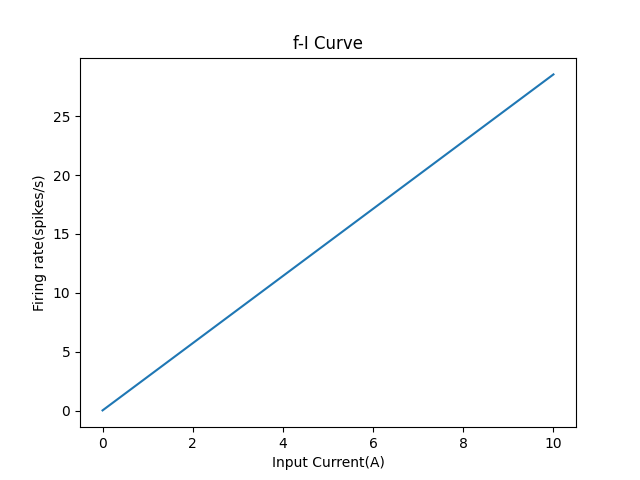
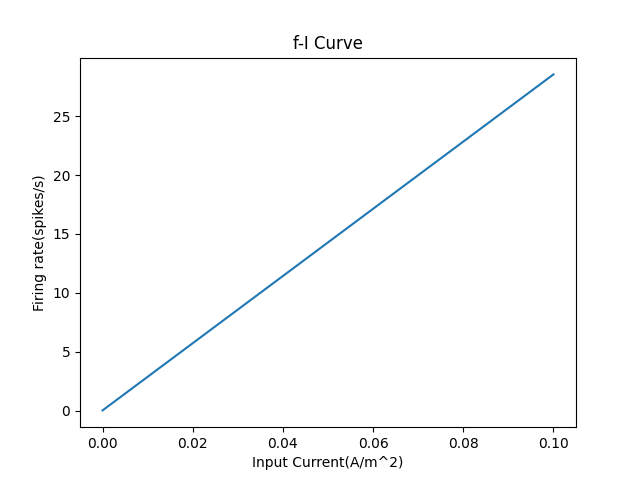
refine and units

diff --git a/HH model.py b/HH model.py
@@ -144,7 +144,7 @@ class HodgkinHuxley():
         y = np.array([v, self.n_inf(v), self.m_inf(v), self.h_inf(v)], dtype= 'float64')
 
         sol = odeint(self.derivatives, y, t)    # Solve ODE
-        v = sol[:,0]
+        v = sol[:,0]*milli
         n = sol[:,1]
         m = sol[:,2]
         h = sol[:,3]
@@ -152,7 +152,7 @@ class HodgkinHuxley():
         self.frequency(sol[:,1])
 
         ax = plt.subplot()
-        ax.plot(t*milli, v*milli)
+        ax.plot(t*milli, v)
         ax.set_xlabel('Time (s)')
         ax.set_ylabel('Membrane potential (v)')
         ax.set_title('Neuron potential')
@@ -174,9 +174,9 @@ class HodgkinHuxley():
 
         # Trajectories with limit cycles
         ax = plt.subplot()
-        ax.plot(sol[:, 0]*milli, n, 'b', label='V - n')
-        ax.plot(sol[:, 0]*milli, m, 'g', label='V - m')
-        ax.plot(sol[:, 0]*milli, h, 'r', label='V - h')
+        ax.plot(v, n, 'b', label='V - n')
+        ax.plot(v, m, 'g', label='V - m')
+        ax.plot(v, h, 'r', label='V - h')
         ax.set_ylabel('Gating value')
         ax.set_xlabel('Voltage (V)')
         ax.set_title('Limit cycles')
@@ -185,8 +185,8 @@ class HodgkinHuxley():
         plt.show()
 
         ax = plt.subplot()
-        ax.plot(self.iinj, self.firing_rate)
-        ax.set_xlabel("Input Current(A)")
+        ax.plot(self.iinj*0.01, self.firing_rate)
+        ax.set_xlabel("Input Current(A/m^2)")
         ax.set_ylabel("Firing rate(spikes/s)")
         ax.set_title('f-I Curve')
         plt.savefig('f-I Curve')
